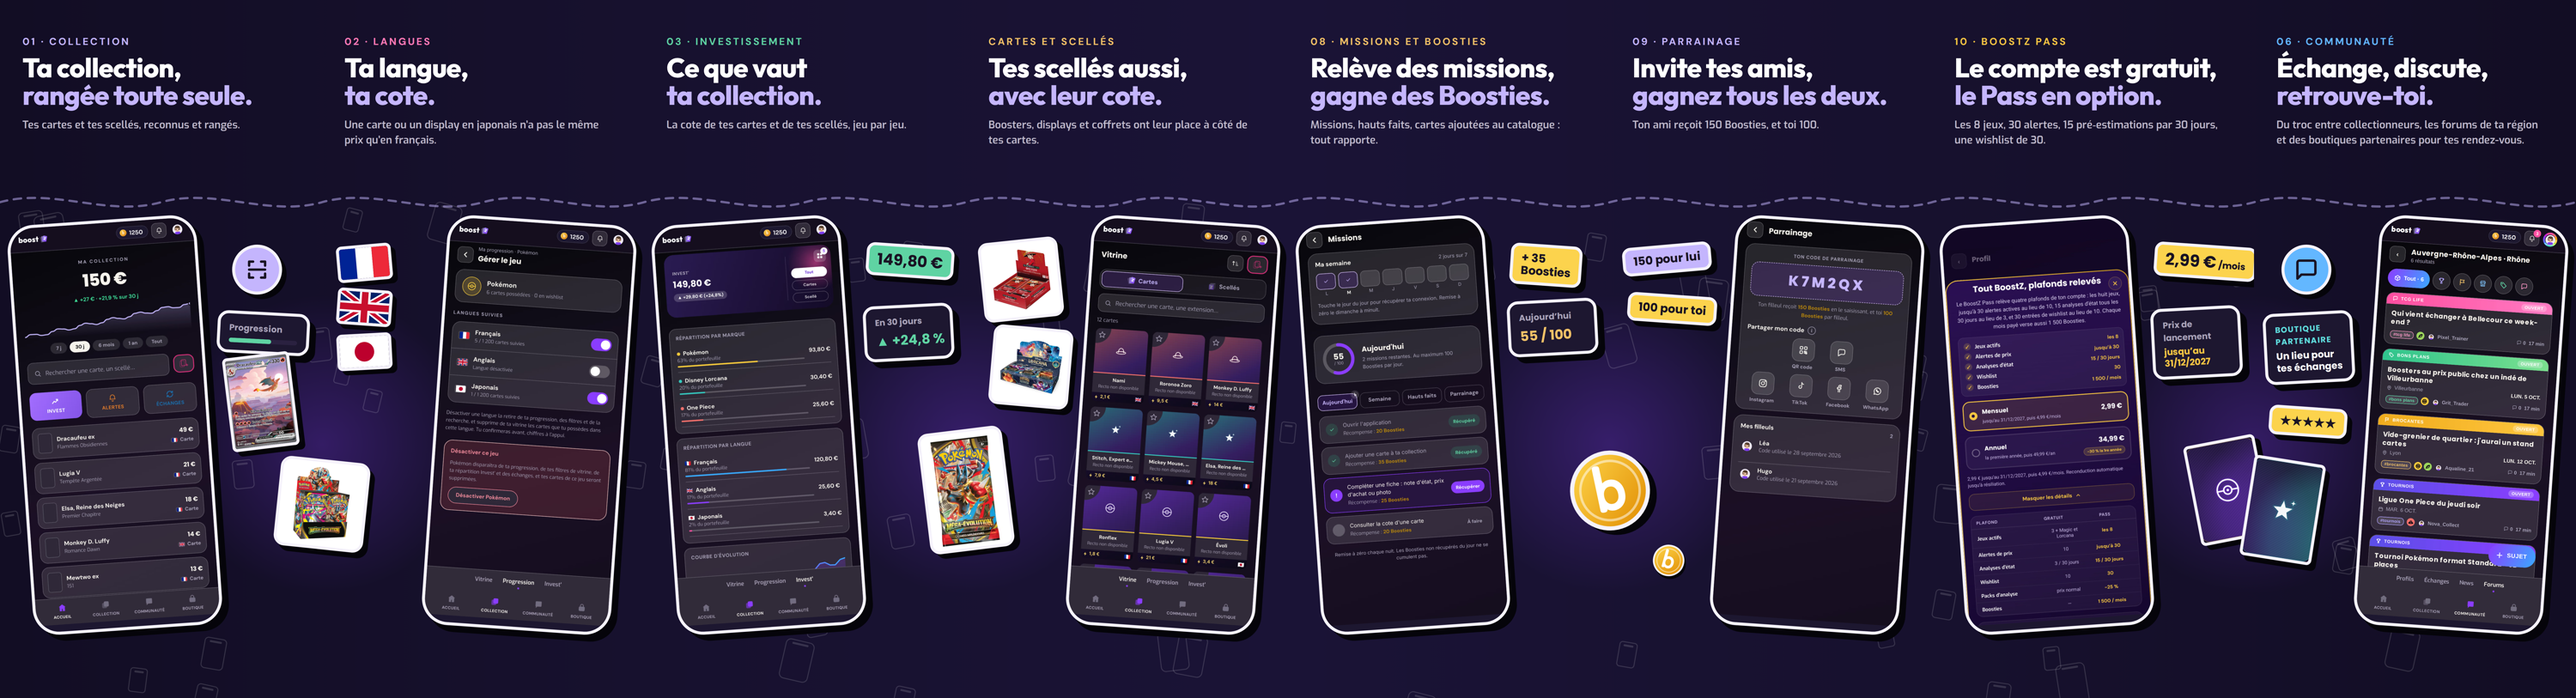
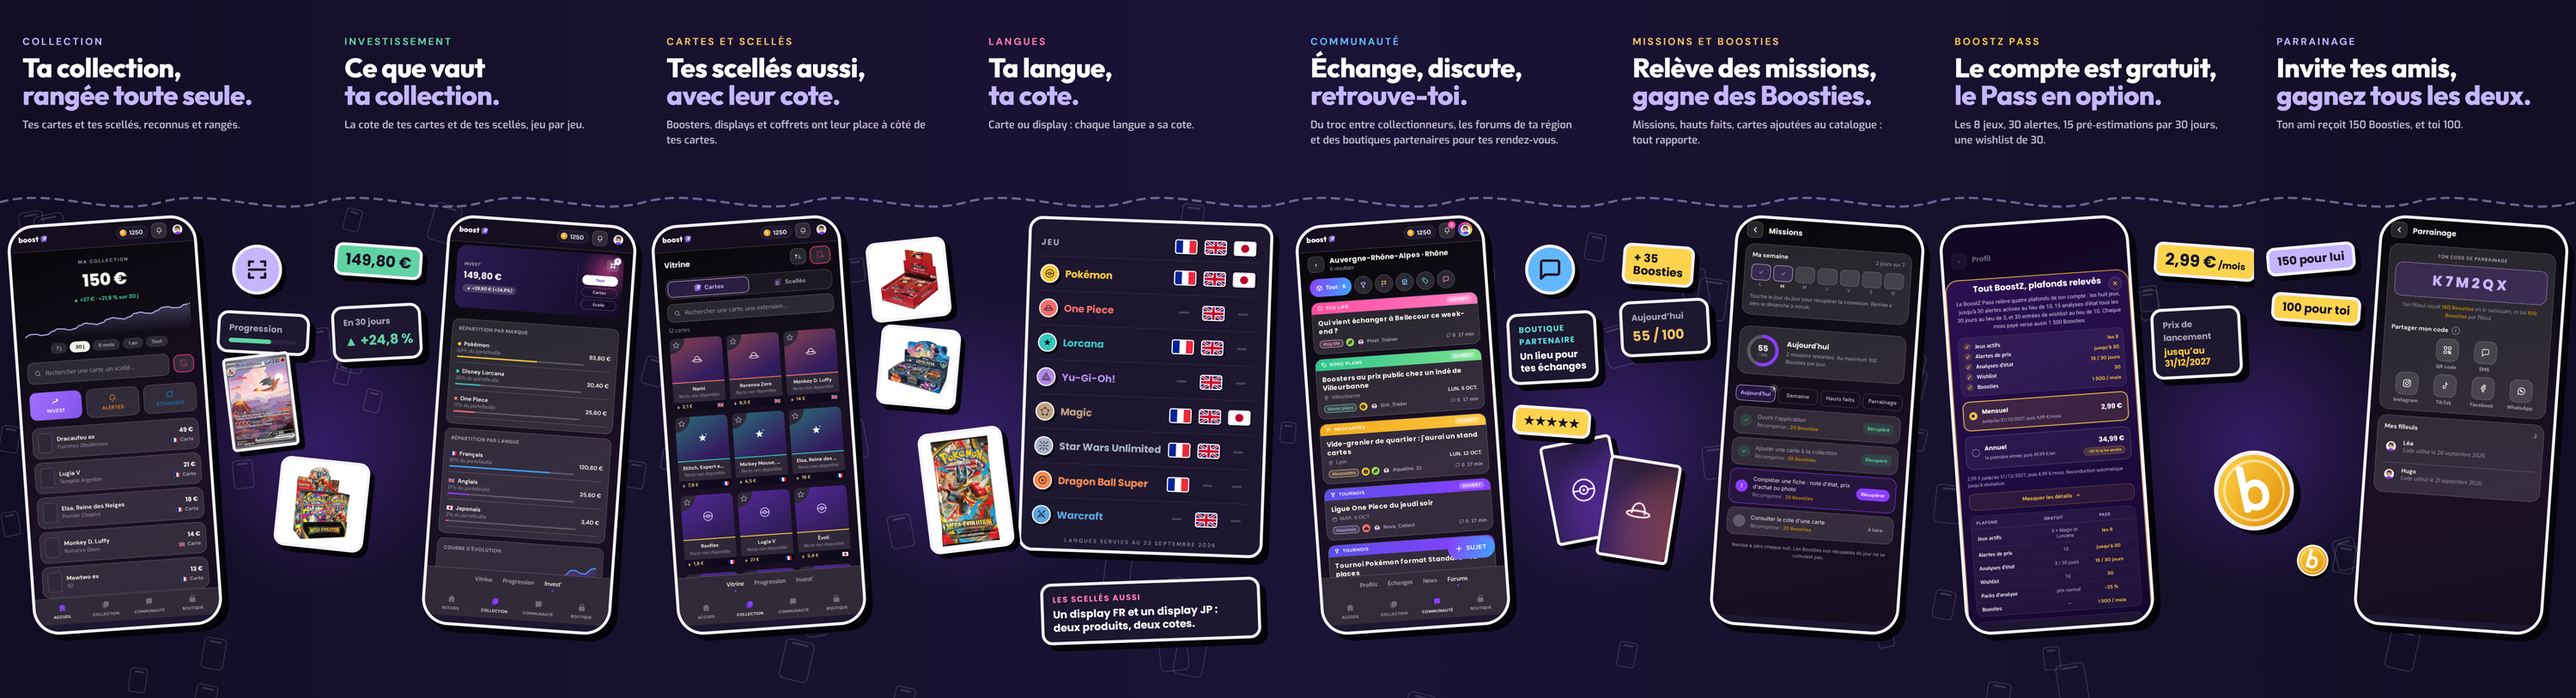
Order the store screenshots for a first-time reader
TanPib asked for a reading order for people discovering the app: the
key features first, then the optional ones, ending with missions, the
Pass and sponsorship. The languages screenshot now shows the site's
table of the languages covered instead of a capture, with a line on
sealed products in both languages. The kickers drop the site's section
numbers, which no longer follow this order, and the bridges match the
new neighbours.

Claude-Session: https://claude.ai/code/session_01KYjmNhJZrtvo4jRtggkgV3

diff --git a/gabarits/store.html b/gabarits/store.html
@@ -74,8 +74,8 @@ const BY = PT + (PLAY ? 760 : 920);
 const BRIDGES = [
   tile('item-pk-display.jpg', seam(0) - (PLAY ? 160 : 180), BY + 40, PLAY ? 320 : 360, 6),
   tile('item-pk-booster.png', seam(2) - (PLAY ? 150 : 170), BY - 80, PLAY ? 300 : 340, -7, 9, 1.43),
-  coin(seam(4) - 165, BY, PLAY ? 290 : 330, -12) + coin(seam(4) + 170, BY + (PLAY ? 330 : 380), 130, 16),
-  dos('pokemon', seam(6) - 250, BY - 40, PLAY ? 260 : 290, -11, 8) + dos('lorcana', seam(6) - 30, BY + 40, PLAY ? 260 : 290, 9, 9),
+  dos('pokemon', seam(4) - 250, BY - 40, PLAY ? 260 : 290, -11, 8) + dos('onepiece', seam(4) - 30, BY + 40, PLAY ? 260 : 290, 9, 9),
+  coin(seam(6) - 165, BY, PLAY ? 290 : 330, -12) + coin(seam(6) + 170, BY + (PLAY ? 330 : 380), 130, 16),
 ].join('');
 const pano = (k) => `<div class="abs" style="left:${-k * W}px;top:0;width:${PANOW}px;height:${H}px">${PANO}<div class="abs" style="left:0;top:0;width:${PANOW}px;height:${H}px;z-index:9">${BRIDGES}</div></div>`;
 const S = [];
@@ -86,47 +86,61 @@ add('1-collection', 0, `${phone('accueil', 0)}
   ${sdisc(FREE(0) + 40, FY, PLAY ? 170 : 200, '#C4B5FD', ico('<path d="M4 8V4h4M16 4h4v4M20 16v4h-4M8 20H4v-4M4 12h16"/>', PLAY ? 80 : 96))}
   ${panel(FREE(0) - 20, FY + (PLAY ? 230 : 270), FW + 20, `${pl('Progression')}<div style="height:18px;border-radius:9px;background:#2A2140;margin-top:16px;overflow:hidden"><div style="width:62%;height:100%;background:#5FD3A3;border-radius:9px"></div></div>`, 3)}
   ${real('carte-dracaufeu-ex-sv035-199.jpg', FREE(0) + 20, FY + (PLAY ? 380 : 440), PLAY ? 240 : 270, -7)}
-  ${text('01 · Collection', '#C4B5FD', `Ta collection,<br>${ACC('rangée toute seule.')}`, 'Tes cartes et tes scellés, reconnus et rangés.')}`);
+  ${text('Collection', '#C4B5FD', `Ta collection,<br>${ACC('rangée toute seule.')}`, 'Tes cartes et tes scellés, reconnus et rangés.')}`);
 
-add('2-langues', 1, `${phone('langues', 1)}
-  <div class="abs" style="left:${FREE(1) + 10}px;top:${FY}px;display:flex;flex-direction:column;gap:${PLAY ? 26 : 32}px;z-index:9">${['fr', 'en', 'ja'].map((c, i) => `<img src="assets/drapeau-${c}.svg" style="width:${PLAY ? 190 : 220}px;height:${PLAY ? 126 : 146}px;object-fit:cover;border:${STB}px solid ${INK};border-radius:22px;box-shadow:${STS * .7}px ${STS * .7}px 0 ${SHADOW};transform:rotate(${[-5, 4, -3][i]}deg)">`).join('')}</div>
-  ${text('02 · Langues', '#FF7AB8', `Ta langue,<br>${ACC('ta cote.')}`, 'Une carte ou un display en japonais n’a pas le même prix qu’en français.')}`);
+// 2 - Languages: the table of the languages covered, as on boostz.fr (TanPib,
+// 04/11/2026: « le schéma des langues couvertes » instead of the capture).
+// Data: the site's table, « langues servies au 23 septembre 2026 ».
+const LANGS = [['pokemon', 'Pokémon', 1, 1, 1], ['onepiece', 'One Piece', 0, 1, 0], ['lorcana', 'Lorcana', 1, 1, 0], ['yugioh', 'Yu-Gi-Oh!', 0, 1, 0],
+  ['magic', 'Magic', 1, 1, 1], ['starwarsunlimited', 'Star Wars Unlimited', 1, 1, 0], ['dragonball', 'Dragon Ball Super', 1, 0, 0], ['wow', 'Warcraft', 0, 1, 0]];
+const RH = PLAY ? 100 : 138, FLW = PLAY ? 78 : 90;
+const fl = (c) => `<img src="assets/drapeau-${c}.svg" style="width:${FLW}px;height:${FLW * .66}px;object-fit:cover;border:${PLAY ? 4 : 5}px solid ${INK};border-radius:10px;box-shadow:4px 4px 0 ${SHADOW}">`;
+const dash = `<span style="display:inline-block;width:${FLW * .45}px;height:8px;border-radius:4px;background:#4A4360"></span>`;
+const cell = (x) => `<div style="width:${FLW + 28}px;display:flex;justify-content:center;align-items:center">${x}</div>`;
+const table = `<div class="abs" style="left:${PLAY ? 180 : 230}px;top:${PT}px;width:${PLAY ? 1000 : 980}px;padding:${PLAY ? '30px 34px 16px' : '36px 40px 20px'};background:#1D1730;border:${STB}px solid ${INK};border-radius:56px;box-shadow:${STS}px ${STS}px 0 ${SHADOW};transform:rotate(2deg);z-index:5">
+  <div style="display:flex;align-items:center;height:${RH * .8}px"><div class="ui" style="flex:1;font-size:${PLAY ? 30 : 34}px;letter-spacing:.14em;color:#A8A2B8">JEU</div>${['fr', 'en', 'ja'].map((c) => cell(fl(c))).join('')}</div>
+  ${LANGS.map(([g, n, ...l], i) => `<div style="display:flex;align-items:center;height:${RH}px;border-top:3px solid rgba(255,255,255,.07)"><div style="flex:1;display:flex;align-items:center;gap:${PLAY ? 20 : 24}px">${emblemDisc(g, PLAY ? 66 : 76)}<span class="ui" style="font-size:${PLAY ? 34 : 40}px;color:${GAMES[g][1]};white-space:nowrap">${n}</span></div>${l.map((v, j) => cell(v ? fl(['fr', 'en', 'ja'][j]) : dash)).join('')}</div>`).join('')}
+  <div class="lab" style="text-align:center;font-size:${PLAY ? 20 : 22}px;letter-spacing:.2em;color:rgba(168,162,184,.7);margin-top:${PLAY ? 14 : 18}px">LANGUES SERVIES AU 23 SEPTEMBRE 2026</div></div>`;
+const TBOT = PT + RH * 8.8 + (PLAY ? 150 : 170);
+add('4-langues', 3, `${table}
+  ${panel(PLAY ? 260 : 300, TBOT + (PLAY ? 40 : 60), PLAY ? 900 : 880, `<div class="ui" style="font-size:${PLAY ? 28 : 32}px;letter-spacing:.12em;color:#FF7AB8">LES SCELLÉS AUSSI</div><div class="ui" style="font-size:${PLAY ? 36 : 42}px;color:#fff;margin-top:10px;line-height:1.25">Un display FR et un display JP :<br>deux produits, deux cotes.</div>`, -2, 6)}
+  ${text('Langues', '#FF7AB8', `Ta langue,<br>${ACC('ta cote.')}`, 'Carte ou display : chaque langue a sa cote.')}`);
 
-add('3-investissement', 2, `${phone('invest', 2)}
-  ${label(FREE(2), FY, '149,80 €', { bg: '#5FD3A3', r: 4, fs: PLAY ? 54 : 62 })}
-  ${panel(FREE(2) - 10, FY + (PLAY ? 200 : 240), FW + 10, `${pl('En 30 jours')}<div class="ui" style="font-size:${PLAY ? 46 : 54}px;color:#5FD3A3;margin-top:8px;white-space:nowrap">▲ +24,8&nbsp;%</div>`, -3)}
-  ${text('03 · Investissement', '#5FD3A3', `Ce que vaut<br>${ACC('ta collection.')}`, 'La cote de tes cartes et de tes scellés, jeu par jeu.')}`);
+add('2-investissement', 1, `${phone('invest', 1)}
+  ${label(FREE(1), FY, '149,80 €', { bg: '#5FD3A3', r: 4, fs: PLAY ? 54 : 62 })}
+  ${panel(FREE(1) - 10, FY + (PLAY ? 200 : 240), FW + 10, `${pl('En 30 jours')}<div class="ui" style="font-size:${PLAY ? 46 : 54}px;color:#5FD3A3;margin-top:8px;white-space:nowrap">▲ +24,8&nbsp;%</div>`, -3)}
+  ${text('Investissement', '#5FD3A3', `Ce que vaut<br>${ACC('ta collection.')}`, 'La cote de tes cartes et de tes scellés, jeu par jeu.')}`);
 
 // 4 - The showcase, with the sealed products up front (TanPib, 04/11/2026:
 // « mentionner le scellé, c'est primordial »). Product shots on white, in white
 // sticker tiles: the French One Piece and Lorcana displays.
-add('4-vitrine', 3, `${phone('vitrine', 3)}
-  ${tile('item-op-display2.png', FREE(3) + 10, FY - 20, PLAY ? 280 : 320, -6)}
-  ${tile('item-lo-display.png', FREE(3) + 50, FY + (PLAY ? 290 : 330), PLAY ? 280 : 320, 5)}
+add('3-scelles', 2, `${phone('vitrine', 2)}
+  ${tile('item-op-display2.png', FREE(2) + 10, FY - 20, PLAY ? 280 : 320, -6)}
+  ${tile('item-lo-display.png', FREE(2) + 50, FY + (PLAY ? 290 : 330), PLAY ? 280 : 320, 5)}
   ${text('Cartes et scellés', '#F0C066', `Tes scellés aussi,<br>${ACC('avec leur cote.')}`, 'Boosters, displays et coffrets ont leur place à côté de tes cartes.')}`);
 
-add('5-missions', 4, `${phone('missions', 4)}
-  ${label(FREE(4), FY, '+ 35<br>Boosties', { r: 4 })}
-  ${panel(FREE(4) - 10, FY + (PLAY ? 190 : 220), FW + 10, `${pl('Aujourd’hui')}<div class="ui" style="font-size:${PLAY ? 46 : 54}px;color:#F0C066;margin-top:8px;white-space:nowrap">55 / 100</div>`, -3)}
-  ${text('08 · Missions et Boosties', '#F0C066', `Relève des missions,<br>${ACC('gagne des Boosties.')}`, 'Missions, hauts faits, cartes ajoutées au catalogue : tout rapporte.')}`);
+add('6-missions', 5, `${phone('missions', 5)}
+  ${label(FREE(5), FY, '+ 35<br>Boosties', { r: 4 })}
+  ${panel(FREE(5) - 10, FY + (PLAY ? 190 : 220), FW + 10, `${pl('Aujourd’hui')}<div class="ui" style="font-size:${PLAY ? 46 : 54}px;color:#F0C066;margin-top:8px;white-space:nowrap">55 / 100</div>`, -3)}
+  ${text('Missions et Boosties', '#F0C066', `Relève des missions,<br>${ACC('gagne des Boosties.')}`, 'Missions, hauts faits, cartes ajoutées au catalogue : tout rapporte.')}`);
 
-add('6-parrainage', 5, `${phone('parrainage', 5)}
-  ${label(FREE(5), FY, '150 pour lui', { bg: '#C4B5FD', r: -5 })}${label(FREE(5) + 20, FY + (PLAY ? 170 : 200), '100 pour toi', { r: 4 })}
-  ${text('09 · Parrainage', '#C4B5FD', `Invite tes amis,<br>${ACC('gagnez tous les deux.')}`, 'Ton ami reçoit 150 Boosties, et toi 100.')}`);
+add('8-parrainage', 7, `${phone('parrainage', 7)}
+  ${label(FREE(7), FY, '150 pour lui', { bg: '#C4B5FD', r: -5 })}${label(FREE(7) + 20, FY + (PLAY ? 170 : 200), '100 pour toi', { r: 4 })}
+  ${text('Parrainage', '#C4B5FD', `Invite tes amis,<br>${ACC('gagnez tous les deux.')}`, 'Ton ami reçoit 150 Boosties, et toi 100.')}`);
 
 add('7-pass', 6, `${phone('pass', 6)}
   ${label(FREE(6), FY, '2,99 €<span style="font-size:.55em"> /mois</span>', { r: 4, fs: PLAY ? 58 : 66 })}
   ${panel(FREE(6) - 10, FY + (PLAY ? 210 : 250), FW + 10, `${pl('Prix de lancement')}<div class="ui" style="font-size:${PLAY ? 32 : 36}px;color:#F5C542;margin-top:8px;line-height:1.25">jusqu’au<br>31/12/2027</div>`, -3)}
-  ${text('10 · BoostZ Pass', '#F5C542', `Le compte est gratuit,<br>${ACC('le Pass en option.')}`, 'Les 8 jeux, 30 alertes, 15 pré‑estimations par 30 jours, une wishlist de 30.')}`);
+  ${text('BoostZ Pass', '#F5C542', `Le compte est gratuit,<br>${ACC('le Pass en option.')}`, 'Les 8 jeux, 30 alertes, 15 pré‑estimations par 30 jours, une wishlist de 30.')}`);
 
 // 8 - Community and partner shops (TanPib, 04/11/2026: not the brand slide,
 // rather alerts and wishlist or exchanges in partner shops). The forum capture
 // is the real one boostz.fr shows (shots/forum-rhone.png, full resolution).
-add('8-communaute', 7, `${phone('communaute', 7)}
-  ${sdisc(FREE(7) + 60, FY, PLAY ? 170 : 200, '#63B7FF', ico('<path d="M21 15a2 2 0 0 1-2 2H7l-4 4V5a2 2 0 0 1 2-2h14a2 2 0 0 1 2 2z"/>', PLAY ? 80 : 96))}
-  ${panel(FREE(7) - 10, FY + (PLAY ? 230 : 270), FW + 10, `<div class="ui" style="font-size:${PLAY ? 28 : 32}px;color:#5FDCDC;letter-spacing:.08em">BOUTIQUE PARTENAIRE</div><div class="ui" style="font-size:${PLAY ? 34 : 38}px;color:#fff;margin-top:10px;line-height:1.25">Un lieu pour tes échanges</div>`, -3)}
-  ${label(FREE(7) + 10, FY + (PLAY ? 560 : 650), '★★★★★', { bg: SUN, r: 4, fs: PLAY ? 44 : 50 })}
-  ${text('06 · Communauté', '#63B7FF', `Échange, discute,<br>${ACC('retrouve-toi.')}`, 'Du troc entre collectionneurs, les forums de ta région et des boutiques partenaires pour tes rendez-vous.')}`);
+add('5-communaute', 4, `${phone('communaute', 4)}
+  ${sdisc(FREE(4) + 60, FY, PLAY ? 170 : 200, '#63B7FF', ico('<path d="M21 15a2 2 0 0 1-2 2H7l-4 4V5a2 2 0 0 1 2-2h14a2 2 0 0 1 2 2z"/>', PLAY ? 80 : 96))}
+  ${panel(FREE(4) - 10, FY + (PLAY ? 230 : 270), FW + 10, `<div class="ui" style="font-size:${PLAY ? 28 : 32}px;color:#5FDCDC;letter-spacing:.08em">BOUTIQUE PARTENAIRE</div><div class="ui" style="font-size:${PLAY ? 34 : 38}px;color:#fff;margin-top:10px;line-height:1.25">Un lieu pour tes échanges</div>`, -3)}
+  ${label(FREE(4) + 10, FY + (PLAY ? 560 : 650), '★★★★★', { bg: SUN, r: 4, fs: PLAY ? 44 : 50 })}
+  ${text('Communauté', '#63B7FF', `Échange, discute,<br>${ACC('retrouve-toi.')}`, 'Du troc entre collectionneurs, les forums de ta région et des boutiques partenaires pour tes rendez-vous.')}`);
 
 carousel(S);
 </script></body></html>
